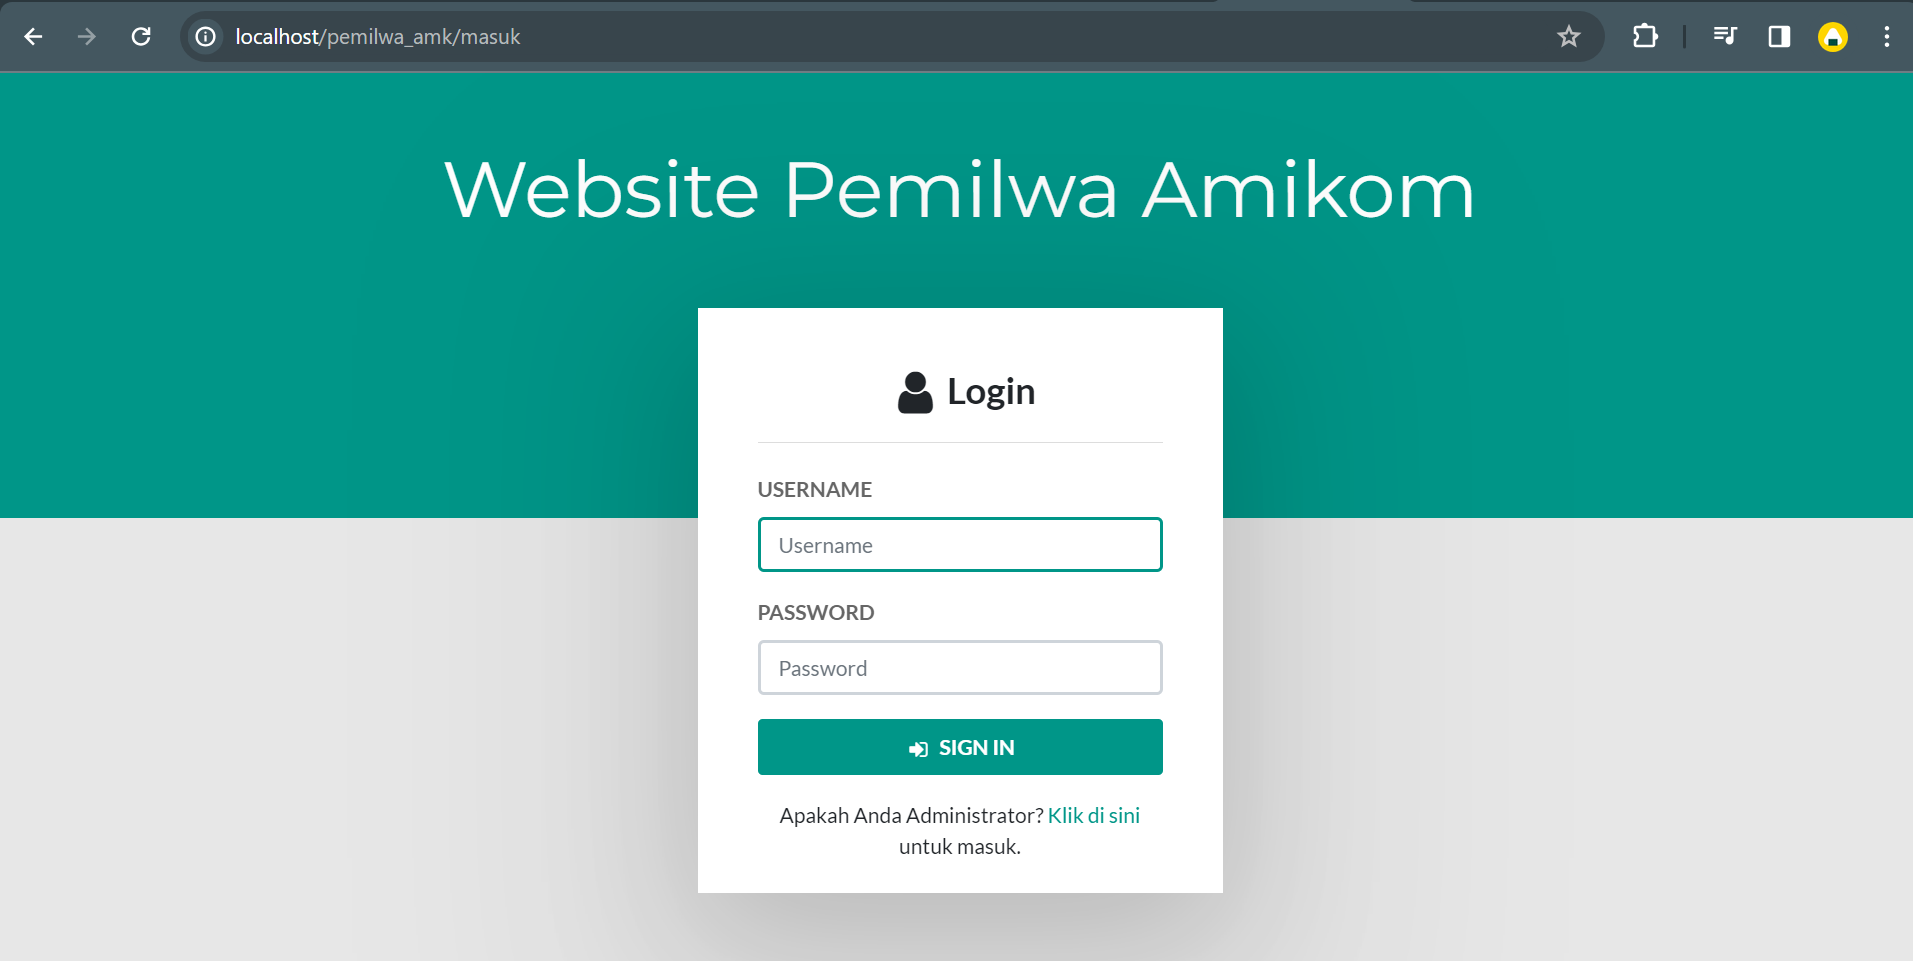
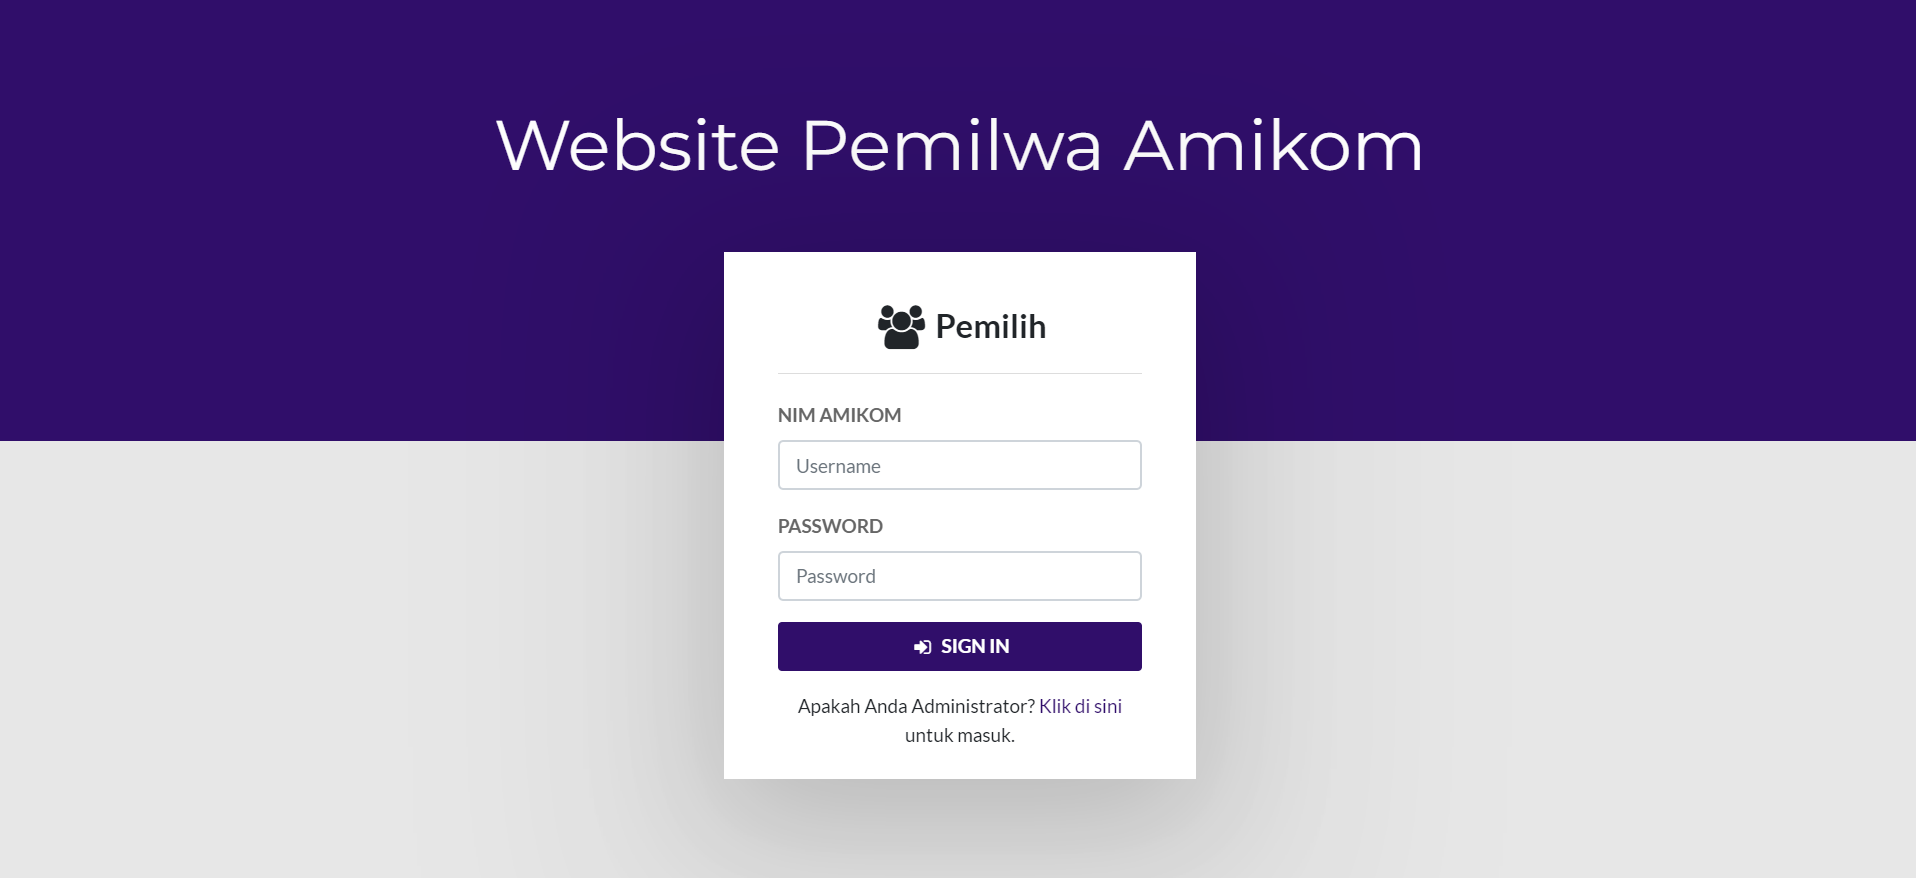
Update reporting

diff --git a/application/views/admin/kandidat/cetak.php b/application/views/admin/kandidat/cetak.php
@@ -1,27 +1,61 @@
-<!doctype html>
+<!DOCTYPE html>
 <html lang="en">
 
 <head>
-    <!-- Required meta tags -->
-    <meta charset="utf-8">
+    <meta charset="UTF-8">
     <meta name="viewport" content="width=device-width, initial-scale=1, shrink-to-fit=no">
-
+    <title>Laporan Data Kandidat Pemilwa Amikom</title>
     <!-- Bootstrap CSS -->
     <link rel="stylesheet" href="https://cdn.jsdelivr.net/npm/bootstrap@4.5.3/dist/css/bootstrap.min.css" integrity="sha384-TX8t27EcRE3e/ihU7zmQxVncDAy5uIKz4rEkgIXeMed4M0jlfIDPvg6uqKI2xXr2" crossorigin="anonymous">
+    <style>
+        body {
+            font-size: 14px;
+        }
 
-    <title>Laporan Data Petugas</title>
+        h3 {
+            text-align: center;
+        }
+
+        .container {
+            margin-top: 50px;
+        }
+
+        .table th,
+        .table td {
+            text-align: center;
+        }
+
+        .img-thumbnail {
+            width: 150px;
+            height: 150px;
+        }
+    </style>
 </head>
 
 <body onload="window.print();">
     <div class="container py-5">
-        <h3 class="text-center">Laporan Data Kandidat Pemilwa Amikom</h3>
+        <div class="row">
+            <div class="col-1 mt-1">
+                <img src="<?= base_url('assets/images/logo-amikom-warna.png'); ?>" alt="Logo" style="max-width: 200px; max-height: 60px;">
+            </div>
+            <div class="col-5 text-center">
+                <h3 class="display-5 mb-0">Laporan Data Kandidat</h3>
+                <h3 class="display-5 mt-0">Pemilwa Amikom</h3>
+            </div>
+            <div class="col-5 text-right">
+                <h5 class="font-weight-medium mb-0 mt-2">KAMPUS TERPADU</h5>
+                <p class="small">Jl. Ring Road Utara, Condong Catur, Depok, Sleman<br>
+                    Telp. (0274)884201 - 206, Faks : (0274)884208</p>
+            </div>
+        </div>
+        <hr style="border: 1px solid #000;">
         <div class="row mt-4">
             <div class="col">
-                <table class="table table-hover table-bordered" id="sampleTable">
+                <table class="table table-hover table-bordered">
                     <thead>
                         <tr>
                             <th>No</th>
-                            <th>Nama</th>
+                            <th>Nama Kandidat</th>
                             <th>Nomor Kandidat</th>
                             <th>Foto</th>
                         </tr>
@@ -35,7 +69,7 @@
                                 <td><?= $data->nama_kandidat; ?></td>
                                 <td><?= $data->nomor_kandidat; ?></td>
                                 <td>
-                                    <img src="<?= base_url('gambar/' . $data->foto_kandidat); ?>" class="img-thumbnail" style="width: 150px;height: 150px;">
+                                    <img src="<?= base_url('gambar/' . $data->foto_kandidat); ?>" class="img-thumbnail">
                                 </td>
                             </tr>
                         <?php
@@ -47,17 +81,10 @@
             </div>
         </div>
     </div>
-    <!-- Optional JavaScript; choose one of the two! -->
 
-    <!-- Option 1: jQuery and Bootstrap Bundle (includes Popper) -->
+    <!-- Bootstrap JS -->
     <script src="https://code.jquery.com/jquery-3.5.1.slim.min.js" integrity="sha384-DfXdz2htPH0lsSSs5nCTpuj/zy4C+OGpamoFVy38MVBnE+IbbVYUew+OrCXaRkfj" crossorigin="anonymous"></script>
     <script src="https://cdn.jsdelivr.net/npm/bootstrap@4.5.3/dist/js/bootstrap.bundle.min.js" integrity="sha384-ho+j7jyWK8fNQe+A12Hb8AhRq26LrZ/JpcUGGOn+Y7RsweNrtN/tE3MoK7ZeZDyx" crossorigin="anonymous"></script>
-
-    <!-- Option 2: jQuery, Popper.js, and Bootstrap JS
-    <script src="https://code.jquery.com/jquery-3.5.1.slim.min.js" integrity="sha384-DfXdz2htPH0lsSSs5nCTpuj/zy4C+OGpamoFVy38MVBnE+IbbVYUew+OrCXaRkfj" crossorigin="anonymous"></script>
-    <script src="https://cdn.jsdelivr.net/npm/popper.js@1.16.1/dist/umd/popper.min.js" integrity="sha384-9/reFTGAW83EW2RDu2S0VKaIzap3H66lZH81PoYlFhbGU+6BZp6G7niu735Sk7lN" crossorigin="anonymous"></script>
-    <script src="https://cdn.jsdelivr.net/npm/bootstrap@4.5.3/dist/js/bootstrap.min.js" integrity="sha384-w1Q4orYjBQndcko6MimVbzY0tgp4pWB4lZ7lr30WKz0vr/aWKhXdBNmNb5D92v7s" crossorigin="anonymous"></script>
-    -->
 </body>
 
 </html>

diff --git a/application/views/admin/kandidat/csuara.php b/application/views/admin/kandidat/csuara.php
@@ -1,23 +1,52 @@
-<!doctype html>
+<!DOCTYPE html>
 <html lang="en">
 
 <head>
-    <!-- Required meta tags -->
-    <meta charset="utf-8">
+    <meta charset="UTF-8">
     <meta name="viewport" content="width=device-width, initial-scale=1, shrink-to-fit=no">
-
+    <title>Laporan Data Perhitungan Suara Pemilwa Amikom</title>
     <!-- Bootstrap CSS -->
     <link rel="stylesheet" href="https://cdn.jsdelivr.net/npm/bootstrap@4.5.3/dist/css/bootstrap.min.css" integrity="sha384-TX8t27EcRE3e/ihU7zmQxVncDAy5uIKz4rEkgIXeMed4M0jlfIDPvg6uqKI2xXr2" crossorigin="anonymous">
+    <style>
+        body {
+            font-size: 14px;
+        }
 
-    <title>Laporan Data Suara</title>
+        h3 {
+            text-align: center;
+        }
+
+        .container {
+            margin-top: 50px;
+        }
+
+        .table th,
+        .table td {
+            text-align: center;
+        }
+    </style>
 </head>
 
 <body onload="window.print();">
     <div class="container py-5">
-        <h3 class="text-center">Laporan Data Perhitungan Suara Pemilwa Amikom</h3>
+        <div class="row">
+            <div class="col-1 mt-1">
+                <img src="<?= base_url('assets/images/logo-amikom-warna.png'); ?>" alt="Logo" style="max-width: 200px; max-height: 60px;">
+            </div>
+            <div class="col-5 text-center">
+                <h3 class="display-5 mb-0">Laporan Hasil Suara</h3>
+                <h3 class="display-5 mt-0">Pemilwa Amikom</h3>
+            </div>
+            <div class="col-5 text-right">
+                <h5 class="font-weight-medium mb-0 mt-2">KAMPUS TERPADU</h5>
+                <p class="small">Jl. Ring Road Utara, Condong Catur, Depok, Sleman<br>
+                    Telp. (0274)884201 - 206, Faks : (0274)884208</p>
+            </div>
+        </div>
+        <hr style="border: 1px solid #000;">
         <div class="row mt-4">
             <div class="col">
-                <table class="table table-hover table-bordered" id="sampleTable">
+                <table class="table table-hover table-bordered">
                     <thead>
                         <tr>
                             <th>No</th>
@@ -50,17 +79,10 @@
             </div>
         </div>
     </div>
-    <!-- Optional JavaScript; choose one of the two! -->
 
-    <!-- Option 1: jQuery and Bootstrap Bundle (includes Popper) -->
+    <!-- Bootstrap JS -->
     <script src="https://code.jquery.com/jquery-3.5.1.slim.min.js" integrity="sha384-DfXdz2htPH0lsSSs5nCTpuj/zy4C+OGpamoFVy38MVBnE+IbbVYUew+OrCXaRkfj" crossorigin="anonymous"></script>
     <script src="https://cdn.jsdelivr.net/npm/bootstrap@4.5.3/dist/js/bootstrap.bundle.min.js" integrity="sha384-ho+j7jyWK8fNQe+A12Hb8AhRq26LrZ/JpcUGGOn+Y7RsweNrtN/tE3MoK7ZeZDyx" crossorigin="anonymous"></script>
-
-    <!-- Option 2: jQuery, Popper.js, and Bootstrap JS
-    <script src="https://code.jquery.com/jquery-3.5.1.slim.min.js" integrity="sha384-DfXdz2htPH0lsSSs5nCTpuj/zy4C+OGpamoFVy38MVBnE+IbbVYUew+OrCXaRkfj" crossorigin="anonymous"></script>
-    <script src="https://cdn.jsdelivr.net/npm/popper.js@1.16.1/dist/umd/popper.min.js" integrity="sha384-9/reFTGAW83EW2RDu2S0VKaIzap3H66lZH81PoYlFhbGU+6BZp6G7niu735Sk7lN" crossorigin="anonymous"></script>
-    <script src="https://cdn.jsdelivr.net/npm/bootstrap@4.5.3/dist/js/bootstrap.min.js" integrity="sha384-w1Q4orYjBQndcko6MimVbzY0tgp4pWB4lZ7lr30WKz0vr/aWKhXdBNmNb5D92v7s" crossorigin="anonymous"></script>
-    -->
 </body>
 
 </html>

diff --git a/application/views/admin/pemilih/cetak.php b/application/views/admin/pemilih/cetak.php
@@ -9,21 +9,37 @@
     <!-- Bootstrap CSS -->
     <link rel="stylesheet" href="https://cdn.jsdelivr.net/npm/bootstrap@4.5.3/dist/css/bootstrap.min.css" integrity="sha384-TX8t27EcRE3e/ihU7zmQxVncDAy5uIKz4rEkgIXeMed4M0jlfIDPvg6uqKI2xXr2" crossorigin="anonymous">
 
-    <title>Laporan Data Petugas</title>
+    <title>Laporan Status Pemilih</title>
 </head>
 
 <body onload="window.print();">
     <div class="container py-5">
-        <h3 class="text-center">Laporan Status Pemilih</h3>
+    <div class="row">
+            <div class="col-1">
+                <img src="<?= base_url('assets/images/logo-amikom-warna.png'); ?>" alt="Logo" style="max-width: 200px; max-height: 60px;">
+            </div>
+            <div class="col-5 text-center">
+                <h3 class="display-5 mb-0">Laporan Status Pemilih</h3>
+                <h3 class="display-5 mt-0">Pemilwa Amikom</h3>
+
+            </div>
+            <div class="col-5 text-right">
+                <h5 class="font-weight-medium mb-0 mt-2">KAMPUS TERPADU</h5>
+                <p class="small">Jl. Ring Road Utara, Condong Catur, Depok, Sleman<br>
+                    Telp. (0274)884201 - 206, Faks : (0274)884208</p>
+            </div>
+        </div>
+        <hr style="border: 1px solid #000;">
         <div class="row mt-4">
             <div class="col">
                 <table class="table table-hover table-bordered" id="sampleTable">
                     <thead>
                         <tr>
                             <th>No</th>
+                            <th>NIM Pemilih</th>
                             <th>Nama Pemilih</th>
-                            <th>Kandidat yang Dipilih</th>
                             <th>Status Memilih</th>
+                            <th>Kandidat yang Dipilih</th>
                         </tr>
                     </thead>
                     <tbody>
@@ -32,14 +48,14 @@
                         foreach ($pemilih as $data) : ?>
                             <tr>
                                 <td><?= $no; ?></td>
+                                <td><?= $data->username; ?> </td>
                                 <td><?= $data->nama_pemilih; ?></td>
-                                <td><?= $data->nama_kandidat ? $data->nama_kandidat : ''; ?></td>
                                 <td><?= isset($data->id_pemilih) ? 'Sudah Memilih' : 'Belum'; ?> </td>
+                                <td><?= $data->nama_kandidat ? $data->nama_kandidat : ''; ?></td>
                             </tr>
                         <?php
                         $no++; //Increment variabel $no.
                         endforeach; ?>
-
                     </tbody>
                 </table>
             </div>
@@ -55,7 +71,6 @@
     <script src="https://code.jquery.com/jquery-3.5.1.slim.min.js" integrity="sha384-DfXdz2htPH0lsSSs5nCTpuj/zy4C+OGpamoFVy38MVBnE+IbbVYUew+OrCXaRkfj" crossorigin="anonymous"></script>
     <script src="https://cdn.jsdelivr.net/npm/popper.js@1.16.1/dist/umd/popper.min.js" integrity="sha384-9/reFTGAW83EW2RDu2S0VKaIzap3H66lZH81PoYlFhbGU+6BZp6G7niu735Sk7lN" crossorigin="anonymous"></script>
     <script src="https://cdn.jsdelivr.net/npm/bootstrap@4.5.3/dist/js/bootstrap.min.js" integrity="sha384-w1Q4orYjBQndcko6MimVbzY0tgp4pWB4lZ7lr30WKz0vr/aWKhXdBNmNb5D92v7s" crossorigin="anonymous"></script>
-    -->
 </body>
 
 </html>

diff --git a/application/views/admin/pemilih/report.php b/application/views/admin/pemilih/report.php
@@ -45,9 +45,10 @@
                                 <thead>
                                     <tr>
                                         <th>No</th>
+                                        <th>NIM</th>
                                         <th>Nama Pemilih</th>
-                                        <th>Kandidat yang Dipilih</th>
                                         <th>Status Memilih</th>
+                                        <th>Kandidat yang Dipilih</th>
                                     </tr>
                                 </thead>
                                 <tbody>
@@ -56,10 +57,11 @@
                                     foreach ($pemilih as $data) : ?>
                                         <tr>
                                             <td><?= $no; ?></td>
+                                            <td><?= $data->username; ?></td>
                                             <td><?= $data->nama_pemilih; ?></td>
-                                            <td><?= $data->nama_kandidat ? $data->nama_kandidat : ''; ?></td>
-                                            <!-- Ganti baris ini -->
+                                            <!-- status memilih -->
                                             <td><?= isset($data->id_pemilih) ? 'Sudah Memilih' : 'Belum'; ?> </td>
+                                            <td><?= $data->nama_kandidat ? $data->nama_kandidat : ''; ?></td>
                                         </tr>
                                     <?php
                                         $no++;
@@ -69,7 +71,7 @@
                                 </tbody>
                             </table>
                         </div>
-                        <a href="<?= base_url('admin/pemilih/cetak'); ?>" class="btn btn-primary">Cetak</a>
+                        <a href="<?= base_url('admin/pemilih/cetak'); ?>" target="blank" class="btn btn-primary">Cetak</a>
                     </div>
                 </div>
             </div>

diff --git a/application/controllers/admin/Pemilih.php b/application/controllers/admin/Pemilih.php
@@ -98,7 +98,7 @@ class Pemilih extends CI_Controller
             redirect('admin/masuk');
         } else {
             // Fetch the required data from the database with JOIN
-            $this->db->select('pemilih.nama_pemilih, kandidat.nama_kandidat, pilih.id_pemilih');
+            $this->db->select('pemilih.username, pemilih.nama_pemilih, kandidat.nama_kandidat, pilih.id_pemilih');
             $this->db->from('pemilih');
             $this->db->join('pilih', 'pemilih.id_pemilih = pilih.id_pemilih', 'left');
             $this->db->join('kandidat', 'pilih.id_kandidat = kandidat.id_kandidat', 'left');
@@ -110,7 +110,7 @@ class Pemilih extends CI_Controller
     public function cetak()
     {
         // Fetch the required data from the database with JOIN
-        $this->db->select('pemilih.nama_pemilih, kandidat.nama_kandidat, pilih.id_pemilih');
+        $this->db->select('pemilih.username, pemilih.nama_pemilih, kandidat.nama_kandidat, pilih.id_pemilih');
         $this->db->from('pemilih');
         $this->db->join('pilih', 'pemilih.id_pemilih = pilih.id_pemilih', 'left');
         $this->db->join('kandidat', 'pilih.id_kandidat = kandidat.id_kandidat', 'left');

diff --git a/application/views/admin/petugas/cetak.php b/application/views/admin/petugas/cetak.php
@@ -14,7 +14,22 @@
 
 <body onload="window.print();">
     <div class="container py-5">
-        <h3 class="text-center">Laporan Data Petugas Pemilwa Amikom</h3>
+        <div class="row">
+            <div class="col-1 mt-1">
+                <img src="<?= base_url('assets/images/logo-amikom-warna.png'); ?>" alt="Logo" style="max-width: 200px; max-height: 60px;">
+            </div>
+            <div class="col-5 text-center">
+                <h3 class="display-5 mb-0">Laporan Data Petugas</h3>
+                <h3 class="display-5 mt-0">Pemilwa Amikom</h3>
+
+            </div>
+            <div class="col-5 text-right">
+                <h5 class="font-weight-medium mb-0 mt-2">KAMPUS TERPADU</h5>
+                <p class="small">Jl. Ring Road Utara, Condong Catur, Depok, Sleman<br>
+                    Telp. (0274)884201 - 206, Faks : (0274)884208</p>
+            </div>
+        </div>
+        <hr style="border: 1px solid #000;">
         <div class="row mt-4">
             <div class="col">
                 <table class="table table-hover table-bordered">

diff --git a/application/views/admin/pemilih/index.php b/application/views/admin/pemilih/index.php
@@ -55,9 +55,9 @@
                   <thead>
                     <tr>
                       <th>No</th>
+                      <th>NIM</th>
                       <th>Nama</th>
                       <th>Jenis Kelamin</th>
-                      <th>Username</th>
                       <th>Aksi</th>
                     </tr>
                   </thead>
@@ -67,9 +67,9 @@
                     foreach ($pemilih as $data) : ?>
                         <tr>
                         <td><?= $no; ?></td>
+                        <td><?= $data->username; ?> </td>
                         <td><?= $data->nama_pemilih; ?></td>
                         <td><?= $data->jk_pemilih; ?></td>
-                        <td><?= $data->username; ?> </td>
                         <td>
                             <a href="<?= base_url('admin/pemilih/ubah/' . $data->id_pemilih); ?>" class="btn btn-info">Ubah</a>
                             <a href="<?= base_url('admin/pemilih/hapus/' . $data->id_pemilih); ?>" class="btn btn-danger">Hapus</a>

diff --git a/application/views/admin/kandidat/suara.php b/application/views/admin/kandidat/suara.php
@@ -38,7 +38,7 @@
         <div class="row">
             <div class="col-md-12">
                 <div class="tile">
-                    <h5>Laporan Perhitungan Suara</h5>
+                    <h5>Laporan Hasil Suara</h5>
                     <?php
                     if ($this->session->flashdata('success')) { ?>
                         <div class="alert alert-success"><?= $this->session->flashdata('success'); ?></div>

diff --git a/application/views/masuk/index.php b/application/views/masuk/index.php
@@ -70,7 +70,7 @@
         ?>
         <h3 class="login-head"><i class="fa fa-lg fa-fw fa-users mr-1"></i>Pemilih</h3>
         <div class="form-group">
-          <label class="control-label">USERNAME</label>
+          <label class="control-label">NIM AMIKOM</label>
           <input class="form-control" name="username" type="text" placeholder="Username" autofocus>
         </div>
         <div class="form-group">
